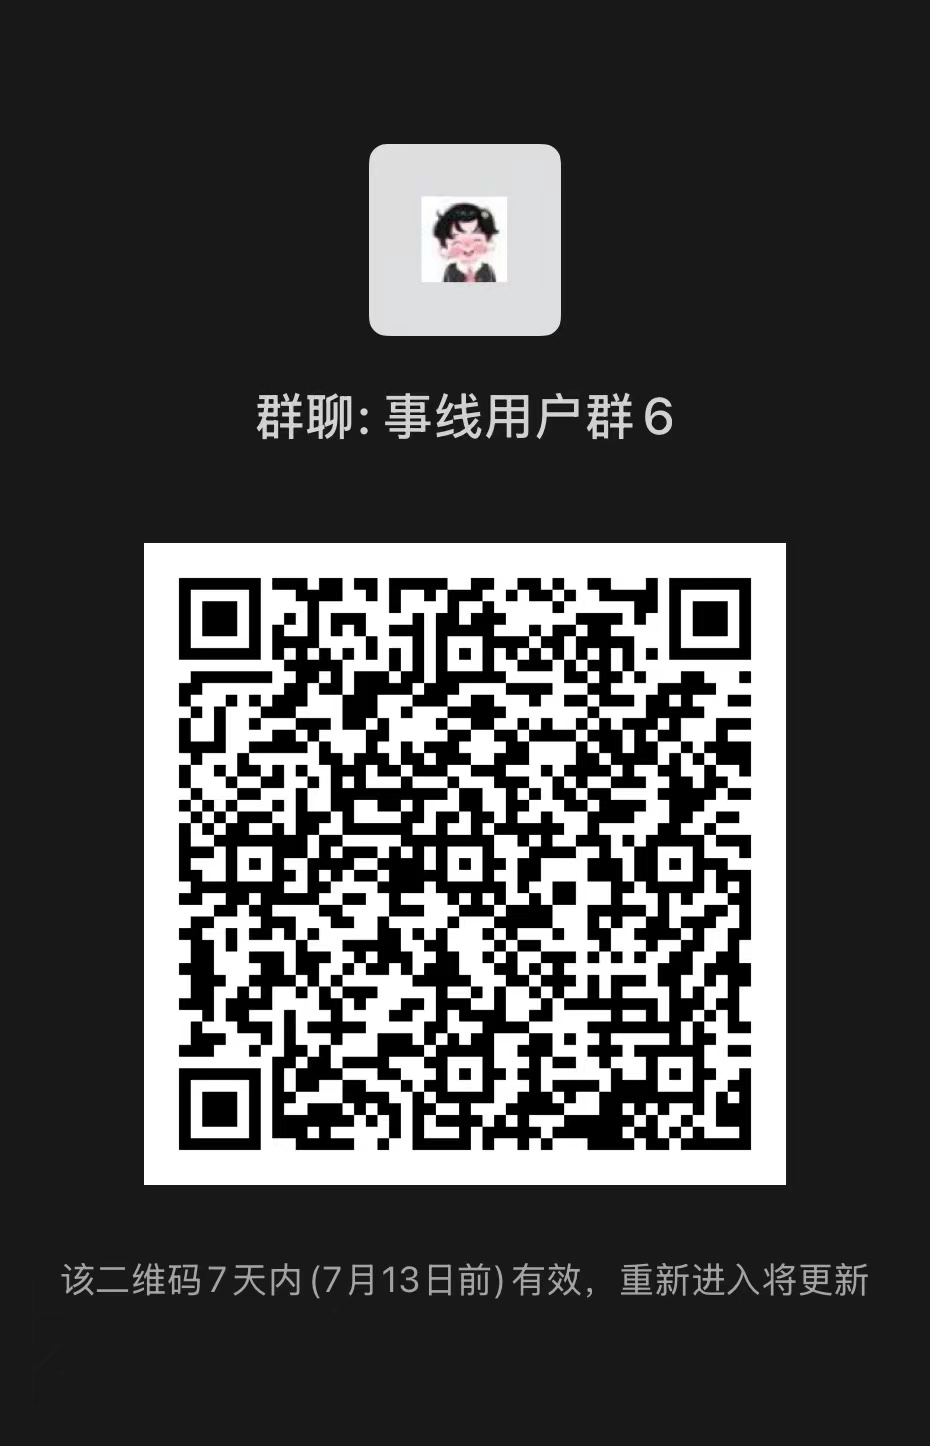
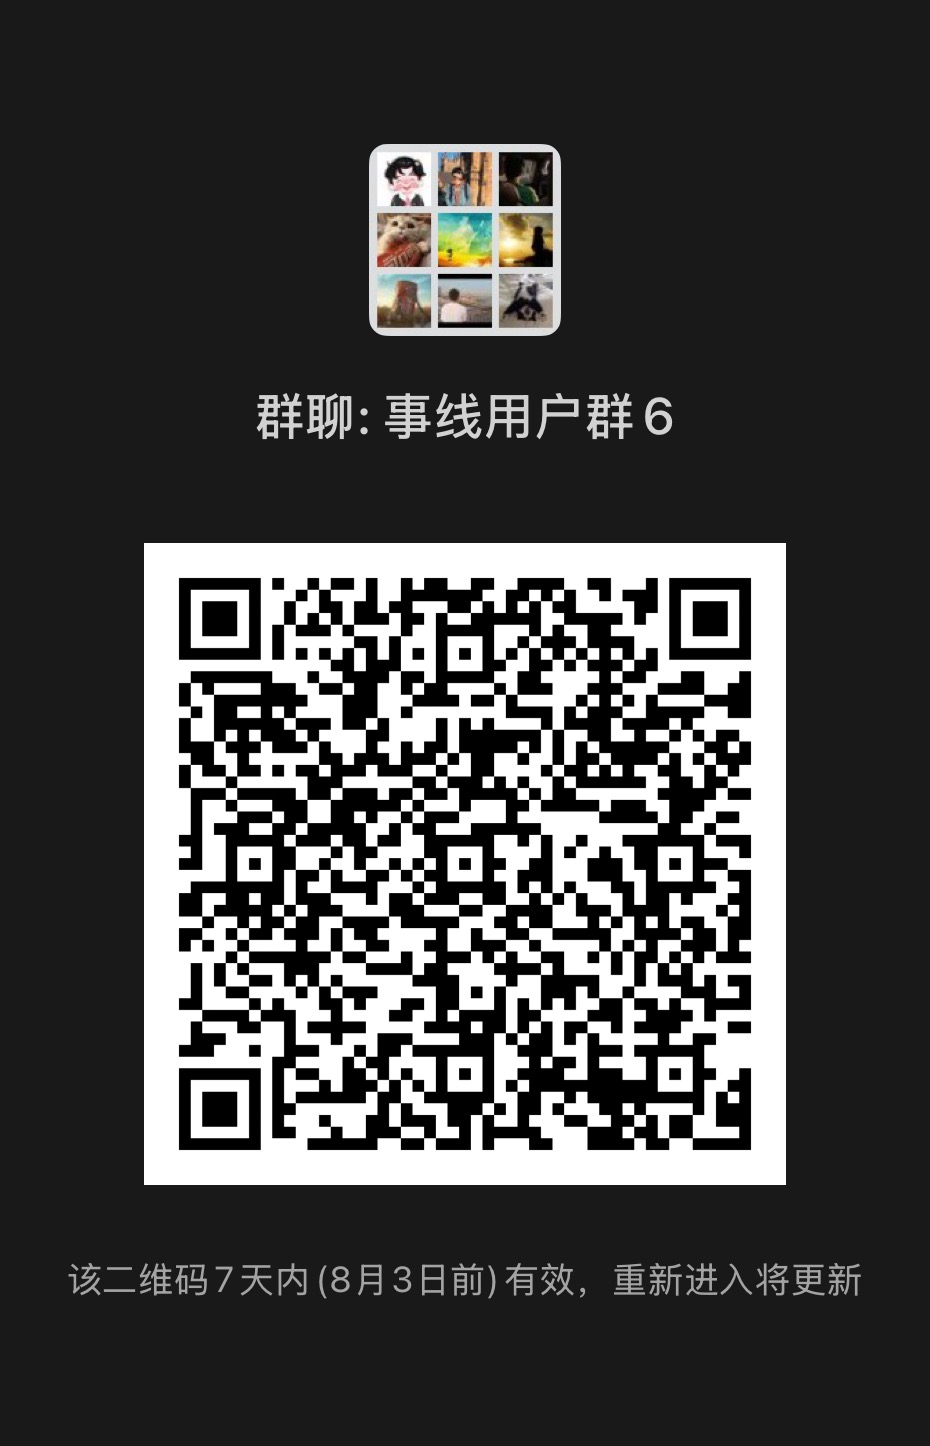
update

diff --git a/pages/user.md b/pages/user.md
@@ -2,7 +2,7 @@
 title: 用户群
 ---
 
-## 用户群 （7.13过期）
+## 用户群
 
 <img src="/img/vx.jpg" class="no-zoom" style="margin: 10px;border-radius: 15px;margin: 2rem 0;box-shadow: 0 0px 20px rgb(0 0 0 / 20%);">
 
